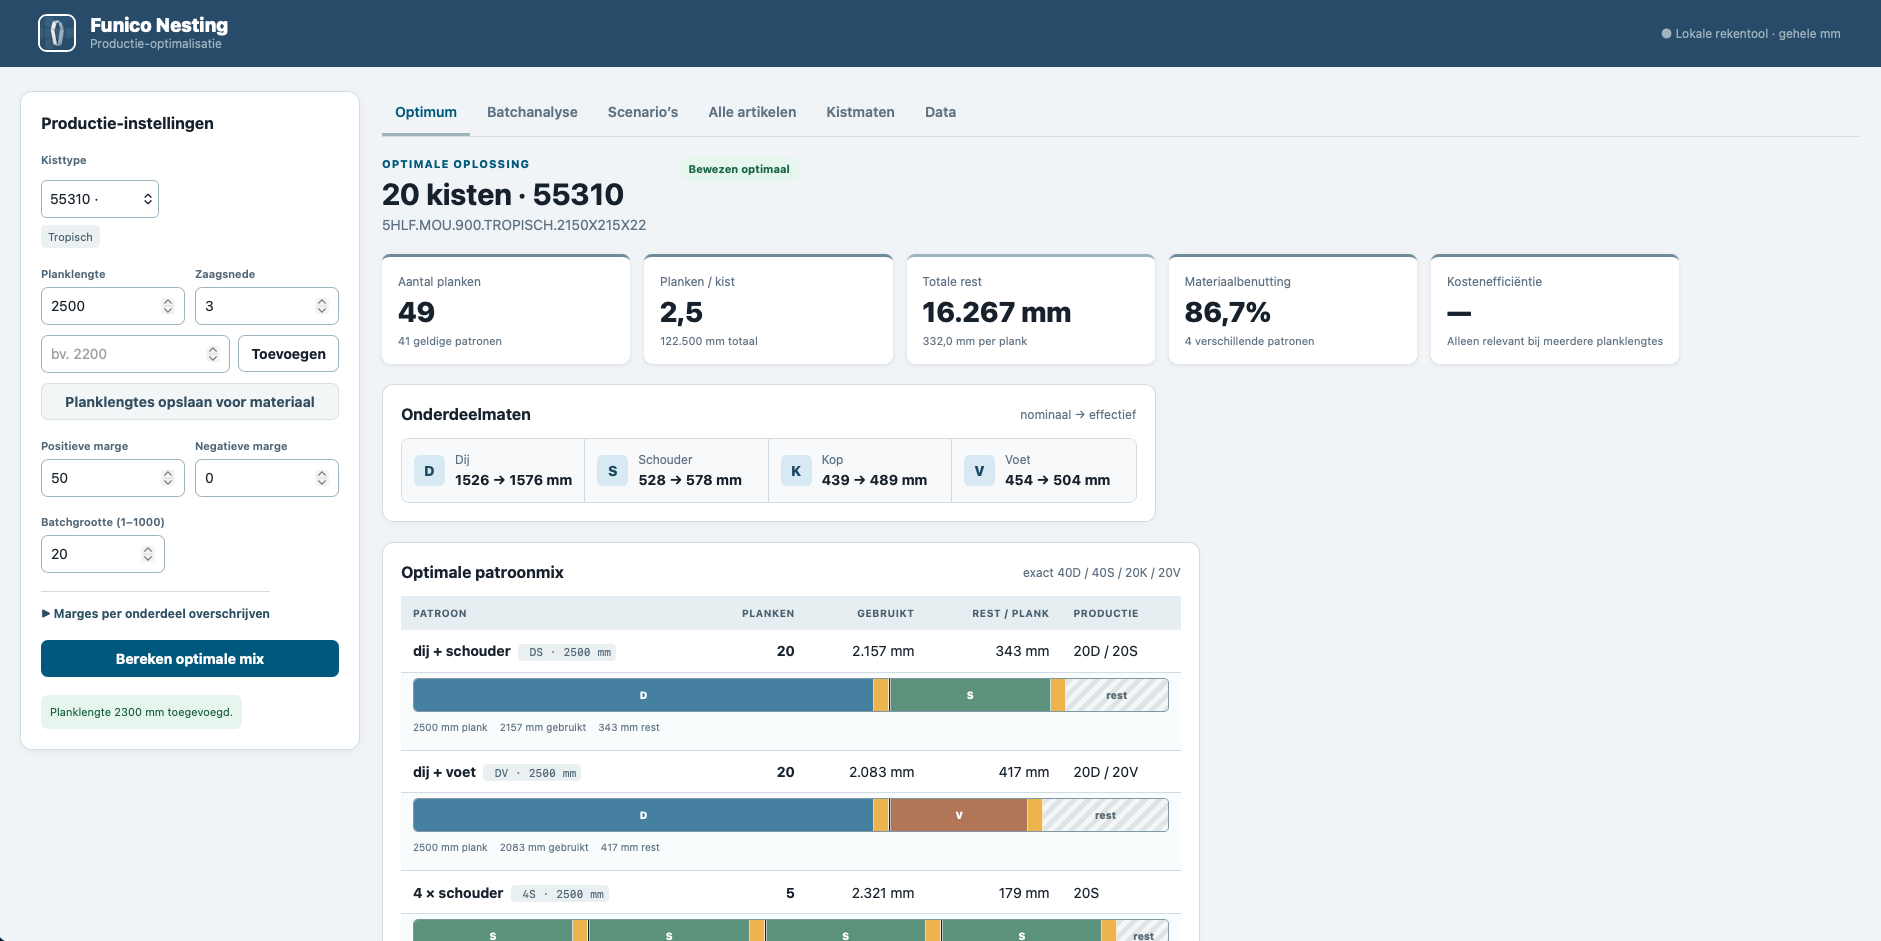
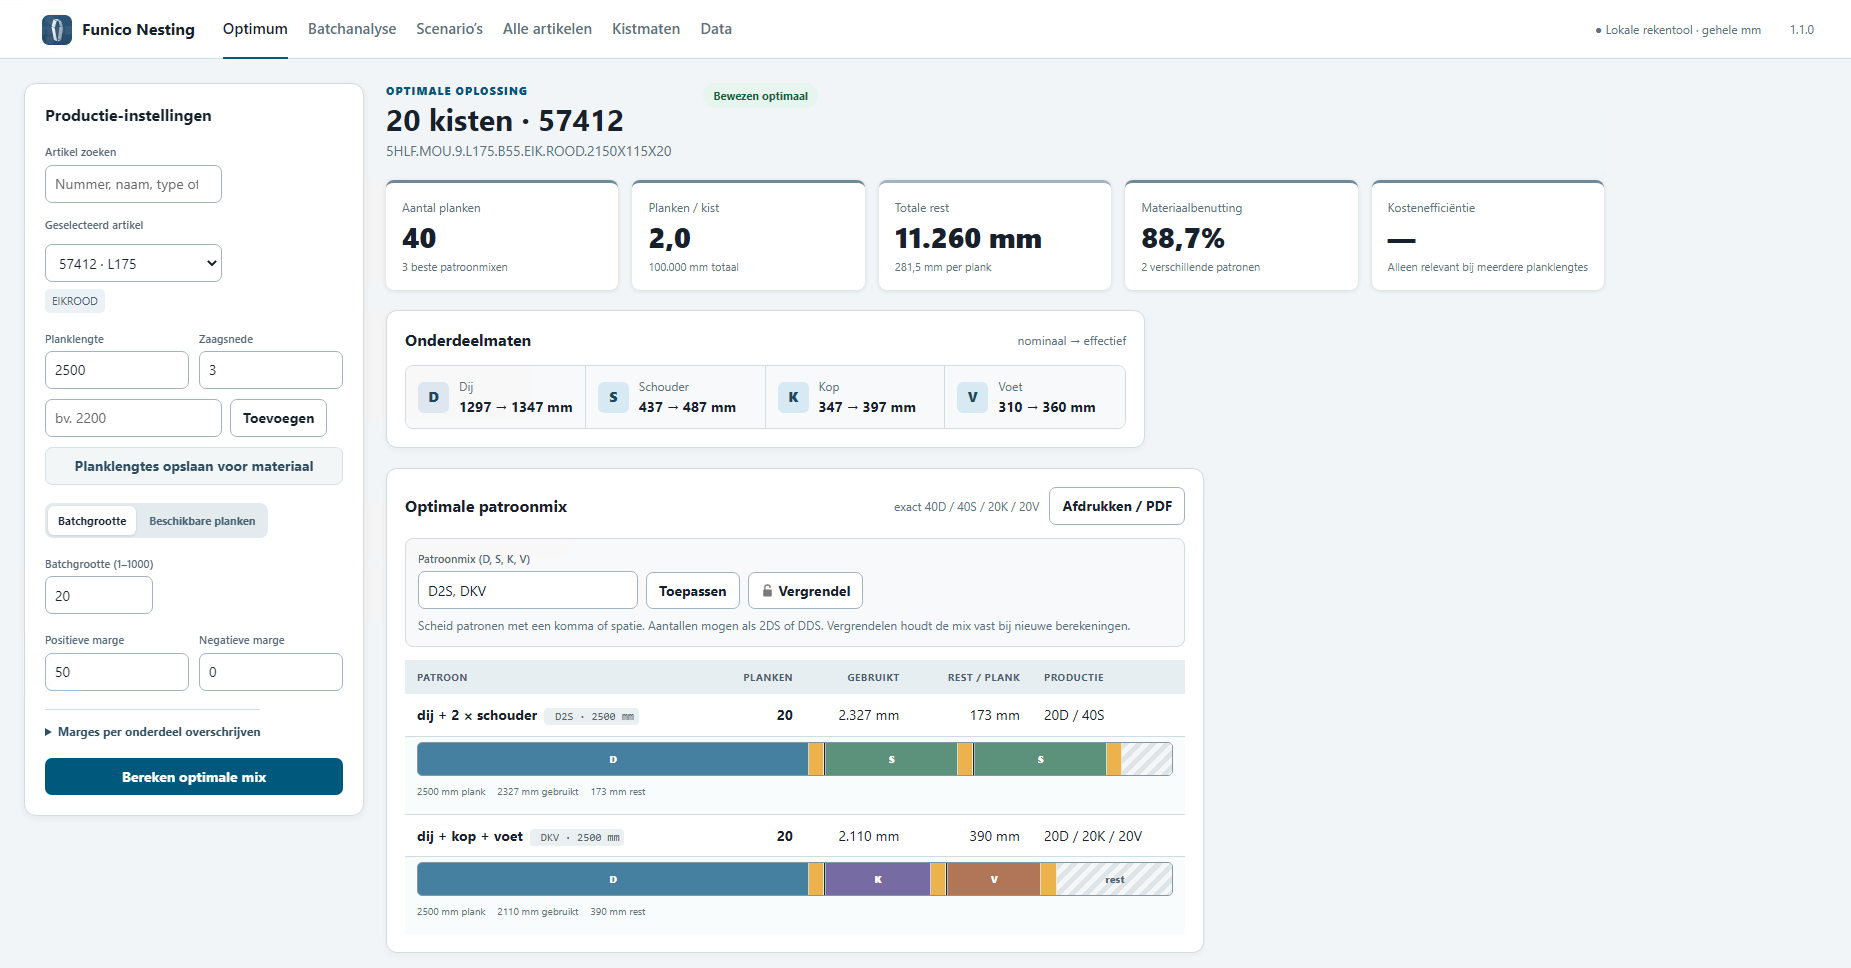
Update website Design

diff --git a/funico-websites/references/design-system.md b/funico-websites/references/design-system.md
@@ -2,7 +2,7 @@
 
 ## Visual Direction
 
-Funico websites should feel like premium operational software: calm, clear, data-capable, and built around real work. The attached design reference is a useful direction for density, spacing, card treatment, and tabbed work areas, but the header should be significantly more refined.
+Funico websites should feel like premium operational software: calm, clear, data-capable, and built around real work. Use the [current design reference](../assets/design-reference.png) for the compact menu bar, icon placement, density, spacing, and panel treatment. The reference shows an operational app; adapt its content to the project.
 
 Use the reference's strengths:
 
@@ -12,12 +12,6 @@ Use the reference's strengths:
 - Strong numeric hierarchy for operational metrics.
 - Dense but readable forms and tables.
 - Restrained shadows, mostly for separation rather than decoration.
-
-Avoid copying the weak parts:
-
-- Do not use a flat full-width strip that makes the brand feel secondary.
-- Do not leave the website icon as a small utility mark.
-- Do not let the header become only a navigation container.
 
 ## Color System
 
@@ -46,30 +40,28 @@ Do not make the entire interface monochrome teal. Combine the brand tint with ne
 
 ## Header
 
-The header must be a branded composition, not a plain top bar.
+Use a single compact white menu bar above the light workspace. Keep the icon, product name, and primary navigation on the same row at desktop sizes, as in the current reference.
 
-Required header qualities:
+Desktop starting values (adapt to the product and available width):
 
-- A prominent website icon appears in the header or first viewport.
-- The icon sits in a deliberate mark container, such as a beveled square, soft tile, circular seal, or integrated brand lockup.
-- The brand name and page/product context should align cleanly with the icon.
-- Navigation should feel connected to the header but not crowd the icon.
-- Header height should be generous enough for brand presence while staying efficient for operational apps.
-- Utility items should be visually secondary.
+- Header height: about `58px` to `60px`, with a subtle bottom border and no heavy shadow.
+- Horizontal padding: `24px` to `40px`.
+- Website icon: about `30px` to `32px` square, with gently rounded corners and its original proportions preserved.
+- Icon-to-name gap: `10px` to `12px`; product name: about `16px`, semibold or bold, in primary text color.
+- Brand-to-navigation gap: `24px` to `32px`; navigation labels: about `14px`, with `20px` to `24px` between them.
+- Active navigation: darker text with a thin `2px` base-tint underline aligned to the header's bottom edge. Inactive labels use secondary text color.
+- Push optional status, environment, or version text to the far right using flexible space; keep it small and muted.
 
-Good header patterns:
+Keep the brand lockup from shrinking and center the icon and text vertically. Place navigation directly after the brand so it reads as one coherent menu bar. Move product descriptors into page content when they would add an unnecessary second line to the header.
 
-- A dark base-tint header with an icon tile on the left, brand text beside it, and compact navigation below or to the right.
-- A split header where a brand rail contains the icon and product name, while a lighter navigation band holds tabs.
-- A first-viewport hero header where the icon appears as a large product mark, with navigation kept minimal and precise.
+Use real navigation links with an accessible current-page state and visible keyboard focus. Keep hit areas comfortable even when the visual mark and labels are compact. Reserve segmented or filled tabs for local controls inside the workspace.
 
 Avoid:
 
-- Tiny favicon-style marks as the only icon usage.
-- Generic logo placeholder squares.
-- Header text that is larger than the icon treatment but less visually considered.
-- Overcrowded nav bars.
-- Glassmorphism, large gradients, or decorative background shapes.
+- A tall colored brand band with a separate row repeating the primary navigation.
+- Enlarging the icon or adding a hero area just to give the brand more presence.
+- Extra frames, padding, or tiles around an icon that already has its own container.
+- Generic logo placeholders, crowded navigation, heavy gradients, or decorative header shapes.
 
 ## Required Website Icon
 
@@ -78,10 +70,10 @@ Every website must include a website icon concept. Treat it as a first-class des
 The icon should:
 
 - Be simple enough to work as a favicon.
-- Be polished enough to appear at 40-64px in the header.
+- Remain clear at the reference header size of `30px` to `32px` and at favicon sizes.
 - Use the base tint and secondary tint, with white or near-white where useful.
 - Be visually related to the website's domain or product purpose.
-- Have a defined container and spacing rules.
+- Use a compact rounded-square treatment when appropriate; preserve an existing supplied icon and its built-in container. Define spacing around the mark without adding an extra frame.
 
 Deliver at least one of these when creating a new site:
 
@@ -98,17 +90,17 @@ Prefer dense but calm interfaces. A Funico website can be spacious, but it shoul
 Recommended layout values:
 
 - Content max width: `1200px` to `1440px`, depending on app density.
-- Desktop page padding: `32px`.
+- Desktop page padding: `24px` to `32px`.
 - Tablet page padding: `24px`.
 - Mobile page padding: `16px`.
-- Section gap: `32px` to `64px`.
+- Operational section gap: `20px` to `24px`; public content sections may use `32px` to `64px`.
 - Panel gap: `12px` to `24px`.
 
 For operational screens:
 
-- Side panels may be used for inputs or filters.
+- Side panels may be used for inputs or filters; the reference uses an approximately `340px` settings panel with a `20px` to `24px` gap before the main workspace.
 - Main content should prioritize current result, metrics, tables, and task flow.
-- Use tabs for peer-level views.
+- Keep primary peer-level views in the header; use local tabs only for views or controls within the current page.
 - Use cards for metrics and repeated entities only; do not put cards inside cards.
 
 ## Typography
@@ -132,7 +124,7 @@ Buttons:
 
 Cards and panels:
 
-- Radius should usually be `8px` or less.
+- Use approximately `10px` to `12px` radii for main panels and `6px` to `8px` for controls, matching the reference.
 - Borders should carry most separation.
 - Shadows should be subtle and rare.
 - Avoid nested cards.
@@ -159,7 +151,8 @@ Tables and data rows:
 On mobile:
 
 - Keep the icon and brand visible.
-- Collapse navigation into a compact menu or horizontal scroll tabs.
+- Move primary navigation into an accessible compact menu or its own horizontally scrollable row before it crowds the brand. Do not shrink the icon or clip navigation labels.
+- Move or hide nonessential utility text first; retain access to any utility actions.
 - Stack side panels above main content when needed.
 - Preserve data readability by prioritizing key metrics before detailed tables.
 

diff --git a/funico-websites/examples/header-with-icon.md b/funico-websites/examples/header-with-icon.md
@@ -1,37 +1,45 @@
 # Abstract Header With Icon Example
 
-This example shows design intent only. It is not real Funico code and does not refer to a real framework.
+This example shows design intent only. It is not real Funico code and does not refer to a real framework. Match the [current reference](../assets/design-reference.png): a compact white menu bar with inline navigation and a small, clearly rendered icon.
 
 ```swift
 struct SiteHeader: View {
 
     var body: some View {
         Header {
-            HStack(spacing: 16) {
+            HStack(spacing: 28) {
 
-                SiteIcon(symbol: .precisionMark)
-                    .tint(.base)
-                    .supportTint(.secondary)
-                    .frame(width: 52, height: 52)
+                HStack(spacing: 10) {
+                    SiteIcon(symbol: .precisionMark)
+                        .tint(.base)
+                        .supportTint(.secondary)
+                        .frame(width: 32, height: 32)
 
-                VStack(alignment: .leading, spacing: 4) {
                     Text("Website Name")
-                        .font(.brandTitle)
-
-                    Text("Production intelligence")
-                        .font(.caption)
-                        .foregroundStyle(.muted)
+                        .font(.brandTitleCompact)
                 }
+                .fixedSize()
+
+                PrimaryNavigation {
+                    NavigationLink("Overview", isCurrentPage: true)
+                    NavigationLink("Planning")
+                    NavigationLink("Data")
+                }
+                .selectionStyle(.bottomUnderline(tint: .base, thickness: 2))
 
                 Spacer()
 
-                Navigation {
-                    Tab("Overview", isSelected: true)
-                    Tab("Planning")
-                    Tab("Data")
-                }
+                Text("Local workspace · 1.0")
+                    .font(.caption)
+                    .foregroundStyle(.muted)
             }
+            .frame(minHeight: 58)
+            .padding(.horizontal, 32)
         }
+        .background(.white)
+        .border(.bottom, color: .border)
     }
 }
 ```
+
+At narrow widths, move navigation into a compact menu or a scrollable row below the brand. Move or hide nonessential utility text before reducing brand space. Preserve comfortable hit areas and visible keyboard focus.

diff --git a/funico-websites/SKILL.md b/funico-websites/SKILL.md
@@ -13,7 +13,7 @@ The result should feel calm, precise, operational, and carefully branded. Prefer
 
 Read only the references that are relevant to the current task:
 
-- For visual direction, colors, header rules, and icon placement, read [references/design-system.md](references/design-system.md).
+- For visual direction, colors, header rules, and icon placement, read [references/design-system.md](references/design-system.md) and inspect the [current design reference](assets/design-reference.png).
 - For application and page architecture, read [references/architecture.md](references/architecture.md).
 - For folder layout and naming conventions, read [references/project-structure.md](references/project-structure.md).
 - For acceptable abstract example style, inspect files in [examples](examples).
@@ -24,8 +24,8 @@ All new Funico websites must:
 
 - Build the design around `#006387` as the base tint.
 - Use `#AABCC6` as the secondary tint.
-- Include a required website icon as a prominent, polished part of the header or first viewport.
-- Improve on the provided reference header: the header must feel intentional, balanced, and branded rather than a plain utility strip.
+- Include a polished website icon in a compact header lockup beside the product name.
+- Follow the current reference header: a single white menu bar with the icon and product name on the left, inline navigation, an active underline, and quiet utilities on the right.
 - Preserve the reference's calm operational feel: light workspace, clear panels, restrained borders, compact navigation, strong information hierarchy.
 - Avoid generic template aesthetics, oversized marketing composition, decorative blobs, heavy gradients, and excessive card nesting.
 - Keep example code abstract. Examples may show declarative component API style, but must not mention real Funico repositories, package names, internal APIs, or actual implementation details.

diff --git a/README.md b/README.md
@@ -84,7 +84,7 @@ Use this prompt when creating or substantially redesigning a Funico website or w
 Read and follow the Funico Websites skill:
 https://github.com/Funico-NV/skills/blob/main/funico-websites/SKILL.md
 
-Also read the linked reference files and examples relevant to the task, resolving their paths relative to the skill's folder on GitHub. Apply the Funico visual guidelines, website icon treatment, architecture, and project structure. Verify the result at desktop and mobile sizes.
+Also read the linked reference files and examples relevant to the task, resolving their paths relative to the skill's folder on GitHub. Apply the Funico visual guidelines and current design reference, including the compact white menu bar, inline navigation, and website icon treatment, along with the architecture and project structure. Verify the result at desktop and mobile sizes.
 
 Task: [Describe the website or application to create or redesign and its constraints.]
 ```

diff --git a/funico-websites/references/architecture.md b/funico-websites/references/architecture.md
@@ -25,7 +25,7 @@ Build pages from sections. A page should read as a deliberate product surface, n
 Recommended page shape:
 
 1. Header or app shell with required icon treatment.
-2. Primary page context: title, status, tabs, or short task summary.
+2. Primary page context: title, status, local tabs, or short task summary.
 3. Main work area: metrics, forms, data views, or content sections.
 4. Supporting content: tables, details, secondary actions.
 5. Footer only when it adds real value.
@@ -39,6 +39,8 @@ Create the header as a reusable system:
 - `PrimaryNavigation` for major areas.
 - `UtilityNavigation` for secondary actions.
 - `SiteHeader` or equivalent wrapper.
+
+Compose the brand lockup, primary navigation, and optional utilities in one compact desktop header row. Primary navigation belongs in the header; do not repeat it above the page content.
 
 The exact names can change by project, but keep these responsibilities distinct.
 

diff --git a/funico-websites/examples/operational-dashboard.md b/funico-websites/examples/operational-dashboard.md
@@ -1,6 +1,6 @@
 # Abstract Operational Dashboard Example
 
-This example demonstrates the preferred density and hierarchy without referencing any real codebase.
+This example demonstrates the preferred density and hierarchy without referencing any real codebase. `SiteHeader` contains primary navigation, as shown in the [header example](header-with-icon.md).
 
 ```swift
 struct DashboardPage: View {
@@ -8,13 +8,6 @@ struct DashboardPage: View {
     var body: some View {
         PageShell {
             SiteHeader()
-
-            Tabs {
-                Tab("Optimum", isSelected: true)
-                Tab("Batch analysis")
-                Tab("Scenarios")
-                Tab("Data")
-            }
 
             Grid(columns: 4, spacing: 12) {
                 MetricCard(label: "Material use", value: "86.7%")
